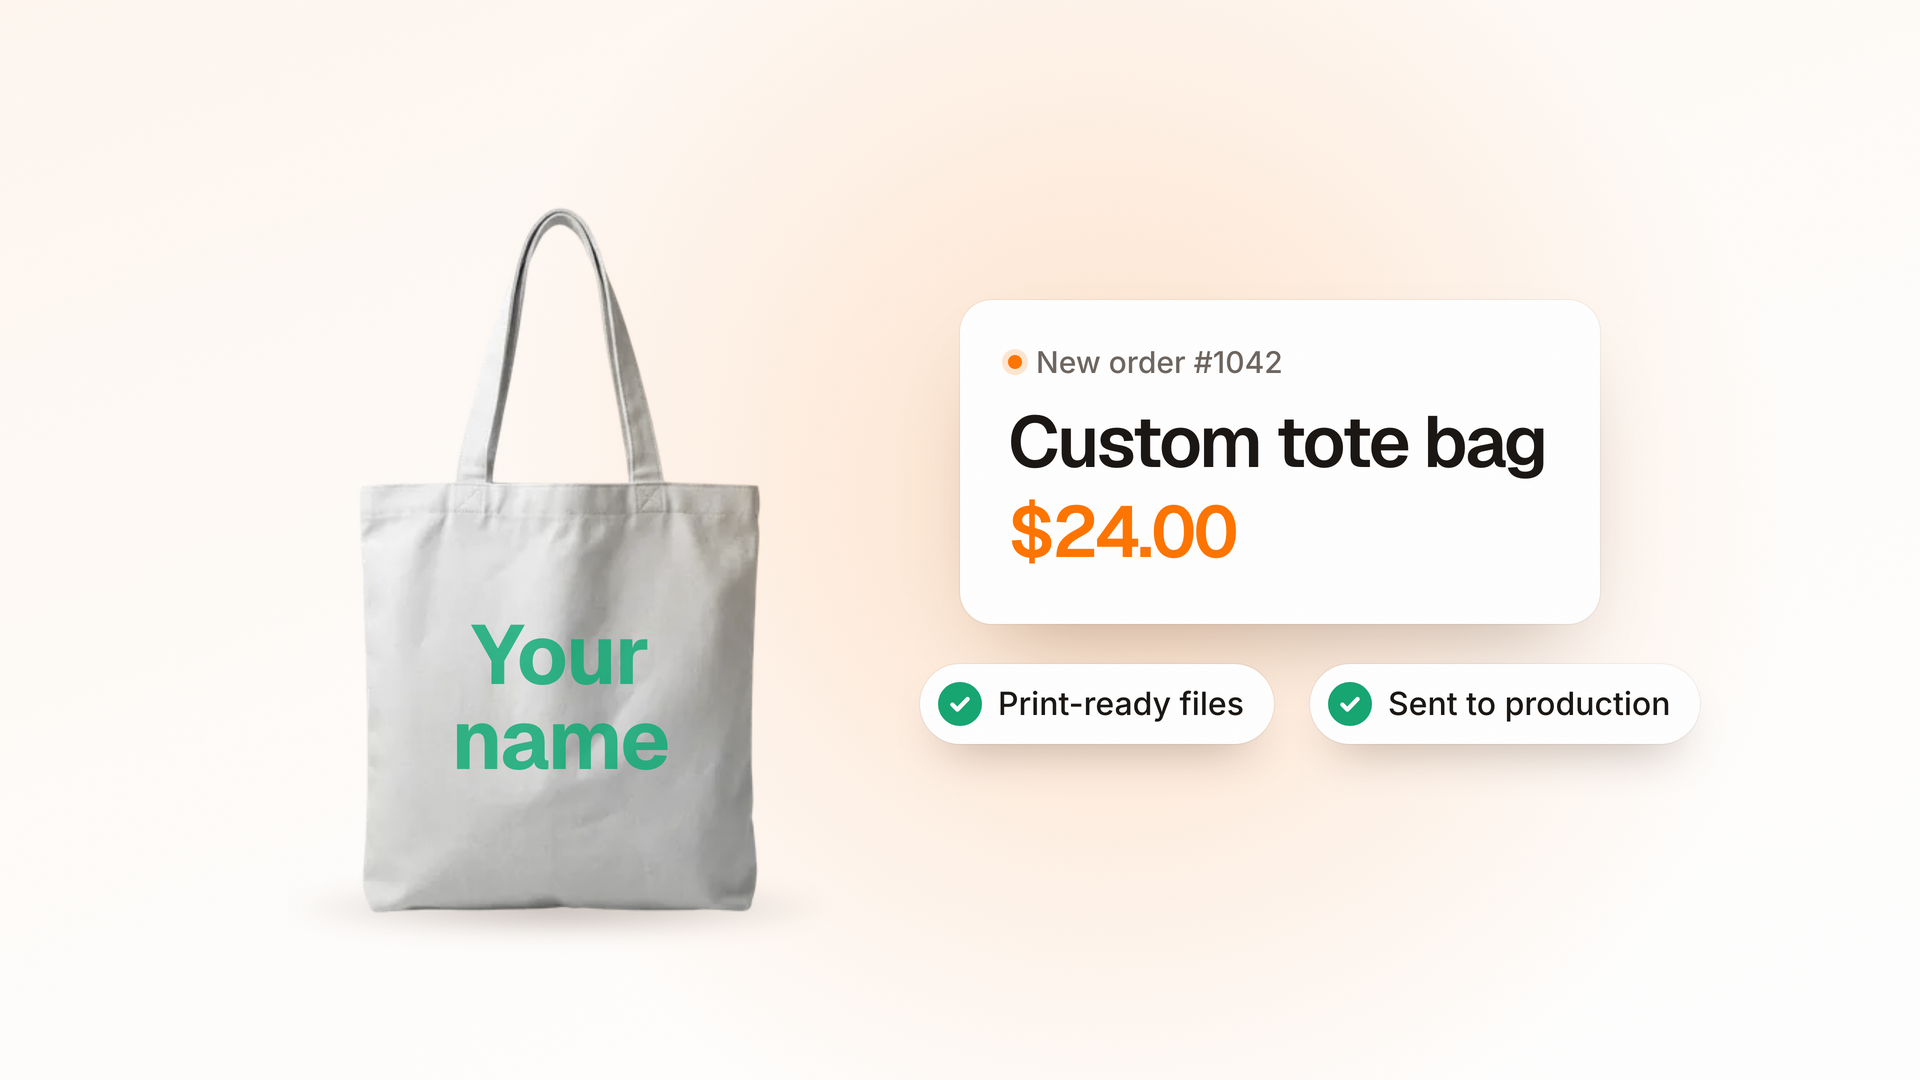
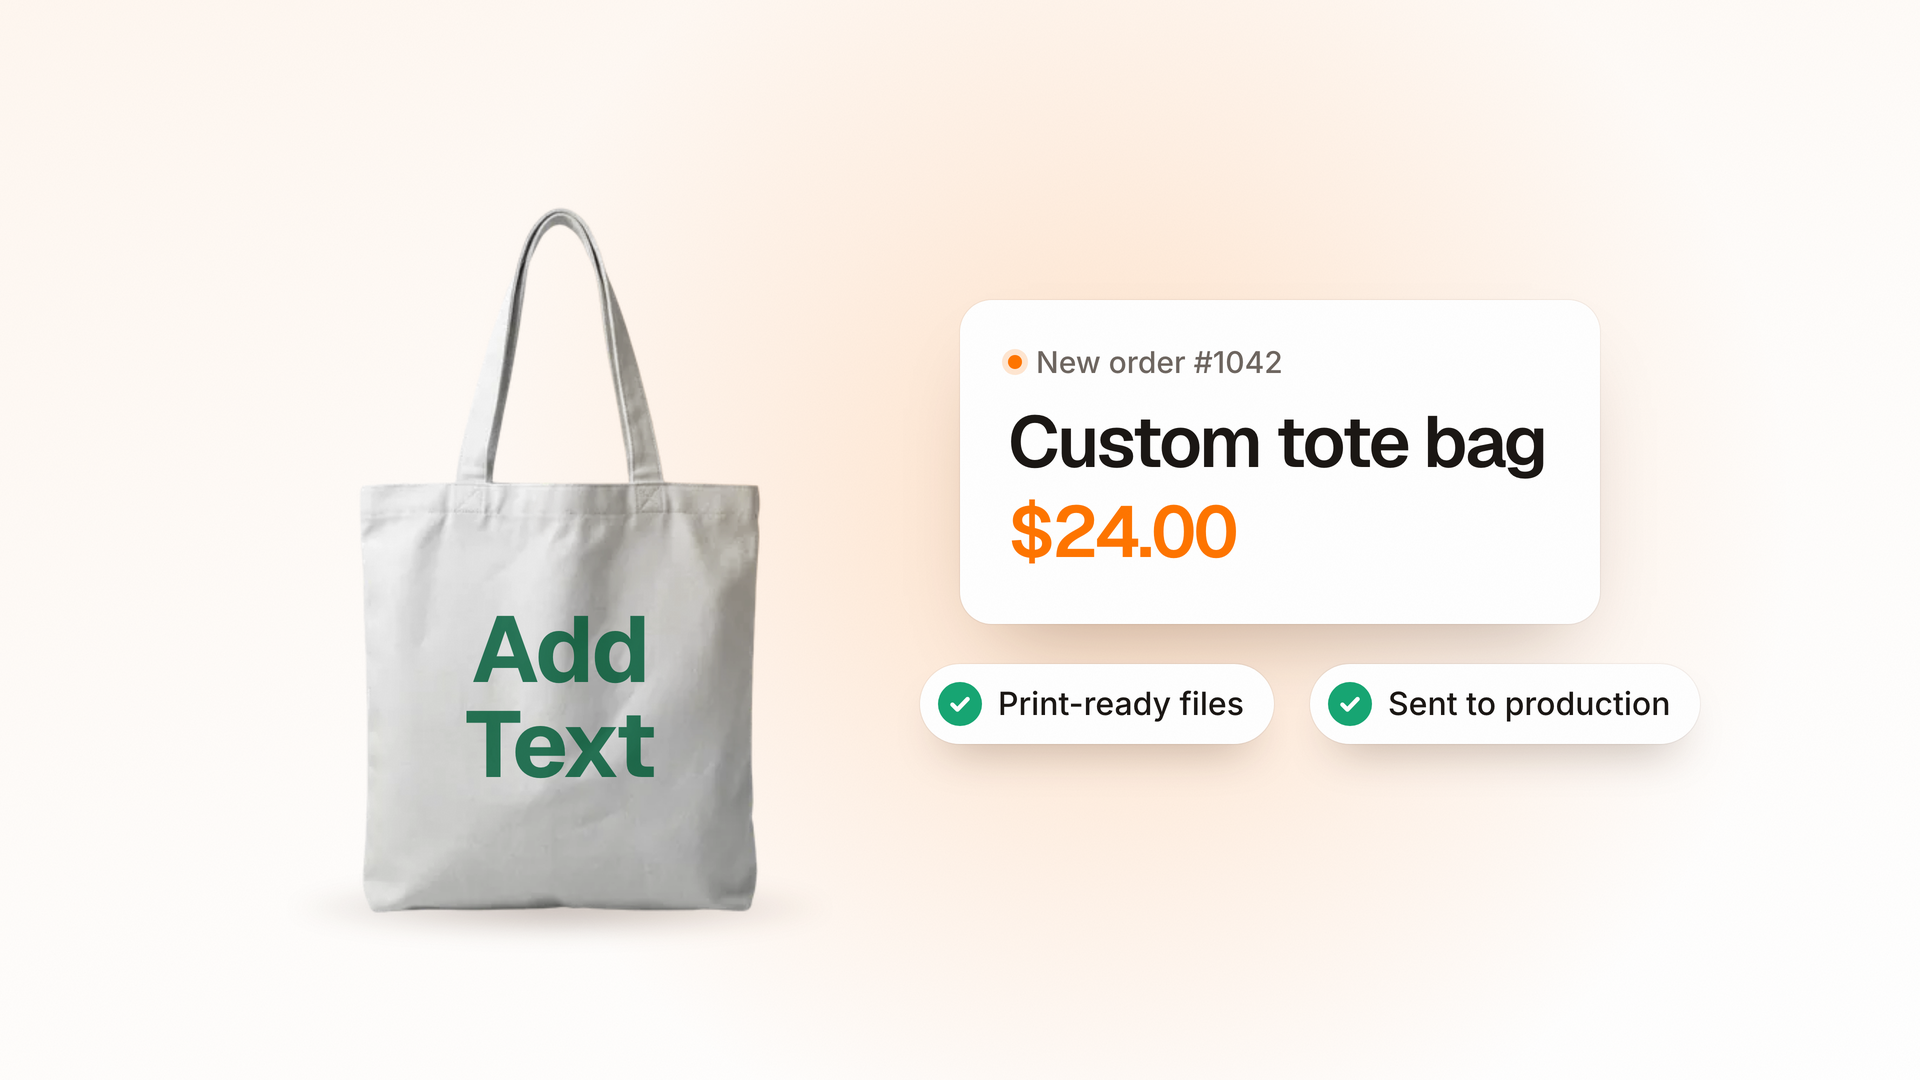
Video style frames: dark green Add Text on the tote

Changed region(s): [[0.2188, 0.55, 0.3438, 0.7333]]

diff --git a/src/video/style-frames.html b/src/video/style-frames.html
@@ -30,7 +30,7 @@
   </div>
   <div class="sel" data-sel-for="hoodie"><i></i><i></i><i></i><i></i></div>
   <div class="glass rail" style="left: 1560px; top: 400px">
-    <span style="--c: #FF7500"></span><span class="is-on" style="--c: #1F3A68"></span><span style="--c: #17A673"></span>
+    <span style="--c: #FF7500"></span><span class="is-on" style="--c: #1F3A68"></span><span style="--c: #0E5A3A"></span>
   </div>
   <div class="grain"></div>
 </section>
@@ -39,7 +39,7 @@
   <div class="glow"></div>
   <div class="prod" style="--s: 860px; left: 130px; top: 130px; --foot: .9; --rx: 90%; --ry: 30%">
     <img src="../assets/products/tote-bag.webp" alt=""><div class="prod__shadow"></div><div class="prod__glow"></div>
-    <div data-print="Your name" data-product="tote-bag" data-color="#17A673"></div>
+    <div data-print="Add Text" data-product="tote-bag" data-color="#0E5A3A"></div>
   </div>
   <div class="card" style="left: 960px; top: 300px">
     <p class="card__label">New order #1042</p>

diff --git a/src/video/video.css b/src/video/video.css
@@ -3,7 +3,7 @@
    scene, editor blue only for selection boxes. Products sit on a soft contact shadow and catch a little of the glow. */
 :root {
   --brand-500: #F58220; --brand-600: #FF7500; --brand-700: #E5380F; --editor-blue: #1C8CF0;
-  --ink: #1B1714; --ink-muted: #6E6660; --navy: #1F3A68; --green: #17A673;
+  --ink: #1B1714; --ink-muted: #6E6660; --navy: #1F3A68; --green: #17A673; --ink-green: #0E5A3A;   /* --green is the UI check; printed green ink is the darker --ink-green so it holds on light fabric */
   --ease-expo: cubic-bezier(.16, 1, .3, 1); --ease-inout: cubic-bezier(.65, 0, .35, 1);
 }
 * { box-sizing: border-box; margin: 0; }

diff --git a/CLAUDE.md b/CLAUDE.md
@@ -556,6 +556,7 @@ same number of links as `nav.json`. Setup once: `python3 -m pip install --user p
 
 Newest first. One line per commit: date, what changed, and any decision behind it.
 
+- 2026-10-09: Video style frames: the tote's print reads "Add Text" in a dark green (#0E5A3A, --ink-green) instead of the light UI green, which washed out on the white fabric (your call); the swatch rail's green matches. The UI check circles keep #17A673
 - 2026-10-09: Video: style frames (open "Design it.", the editor moment on the hoodie, the order card on the tote) from src/video/video.css and style-frames.html, rendered by scripts/render_style_frames.py. Look: warm #FFF7F0-to-white ground, one soft brand glow, ~2.5% grain, Geist 600 hero words at 210px, Inter 500 40px lines, orange as the one accent, editor blue only for the selection box, products on a soft contact shadow with a glow reflection clipped to the product. Your fix: 40px between the order card and its two chips
 - 2026-10-09: Video: measured print areas (src/video/print-areas.json for hoodie, tee, mug, cap and tote bag, measured from each image's alpha; src/video/print-text.js places text by fit-to-box, a matrix3d perspective quad, a cylinder curve on the mug, a clip to the product's alpha and a printed look; scripts/check_print_areas.py checks every quad pixel is on the product and writes the debug sheet). Text is never placed by guess again. The cap holds one line; the mug quad was measured on the new 1000px mug
 - 2026-10-09: New mug image (your higher-resolution mug2.png from products-new): trimmed, centred, 82% fill, 1000x1000 like the tee (24 KB, smaller than the old 600px mug). It replaces the mug everywhere; the 404 mug print area still sits inside the new body
